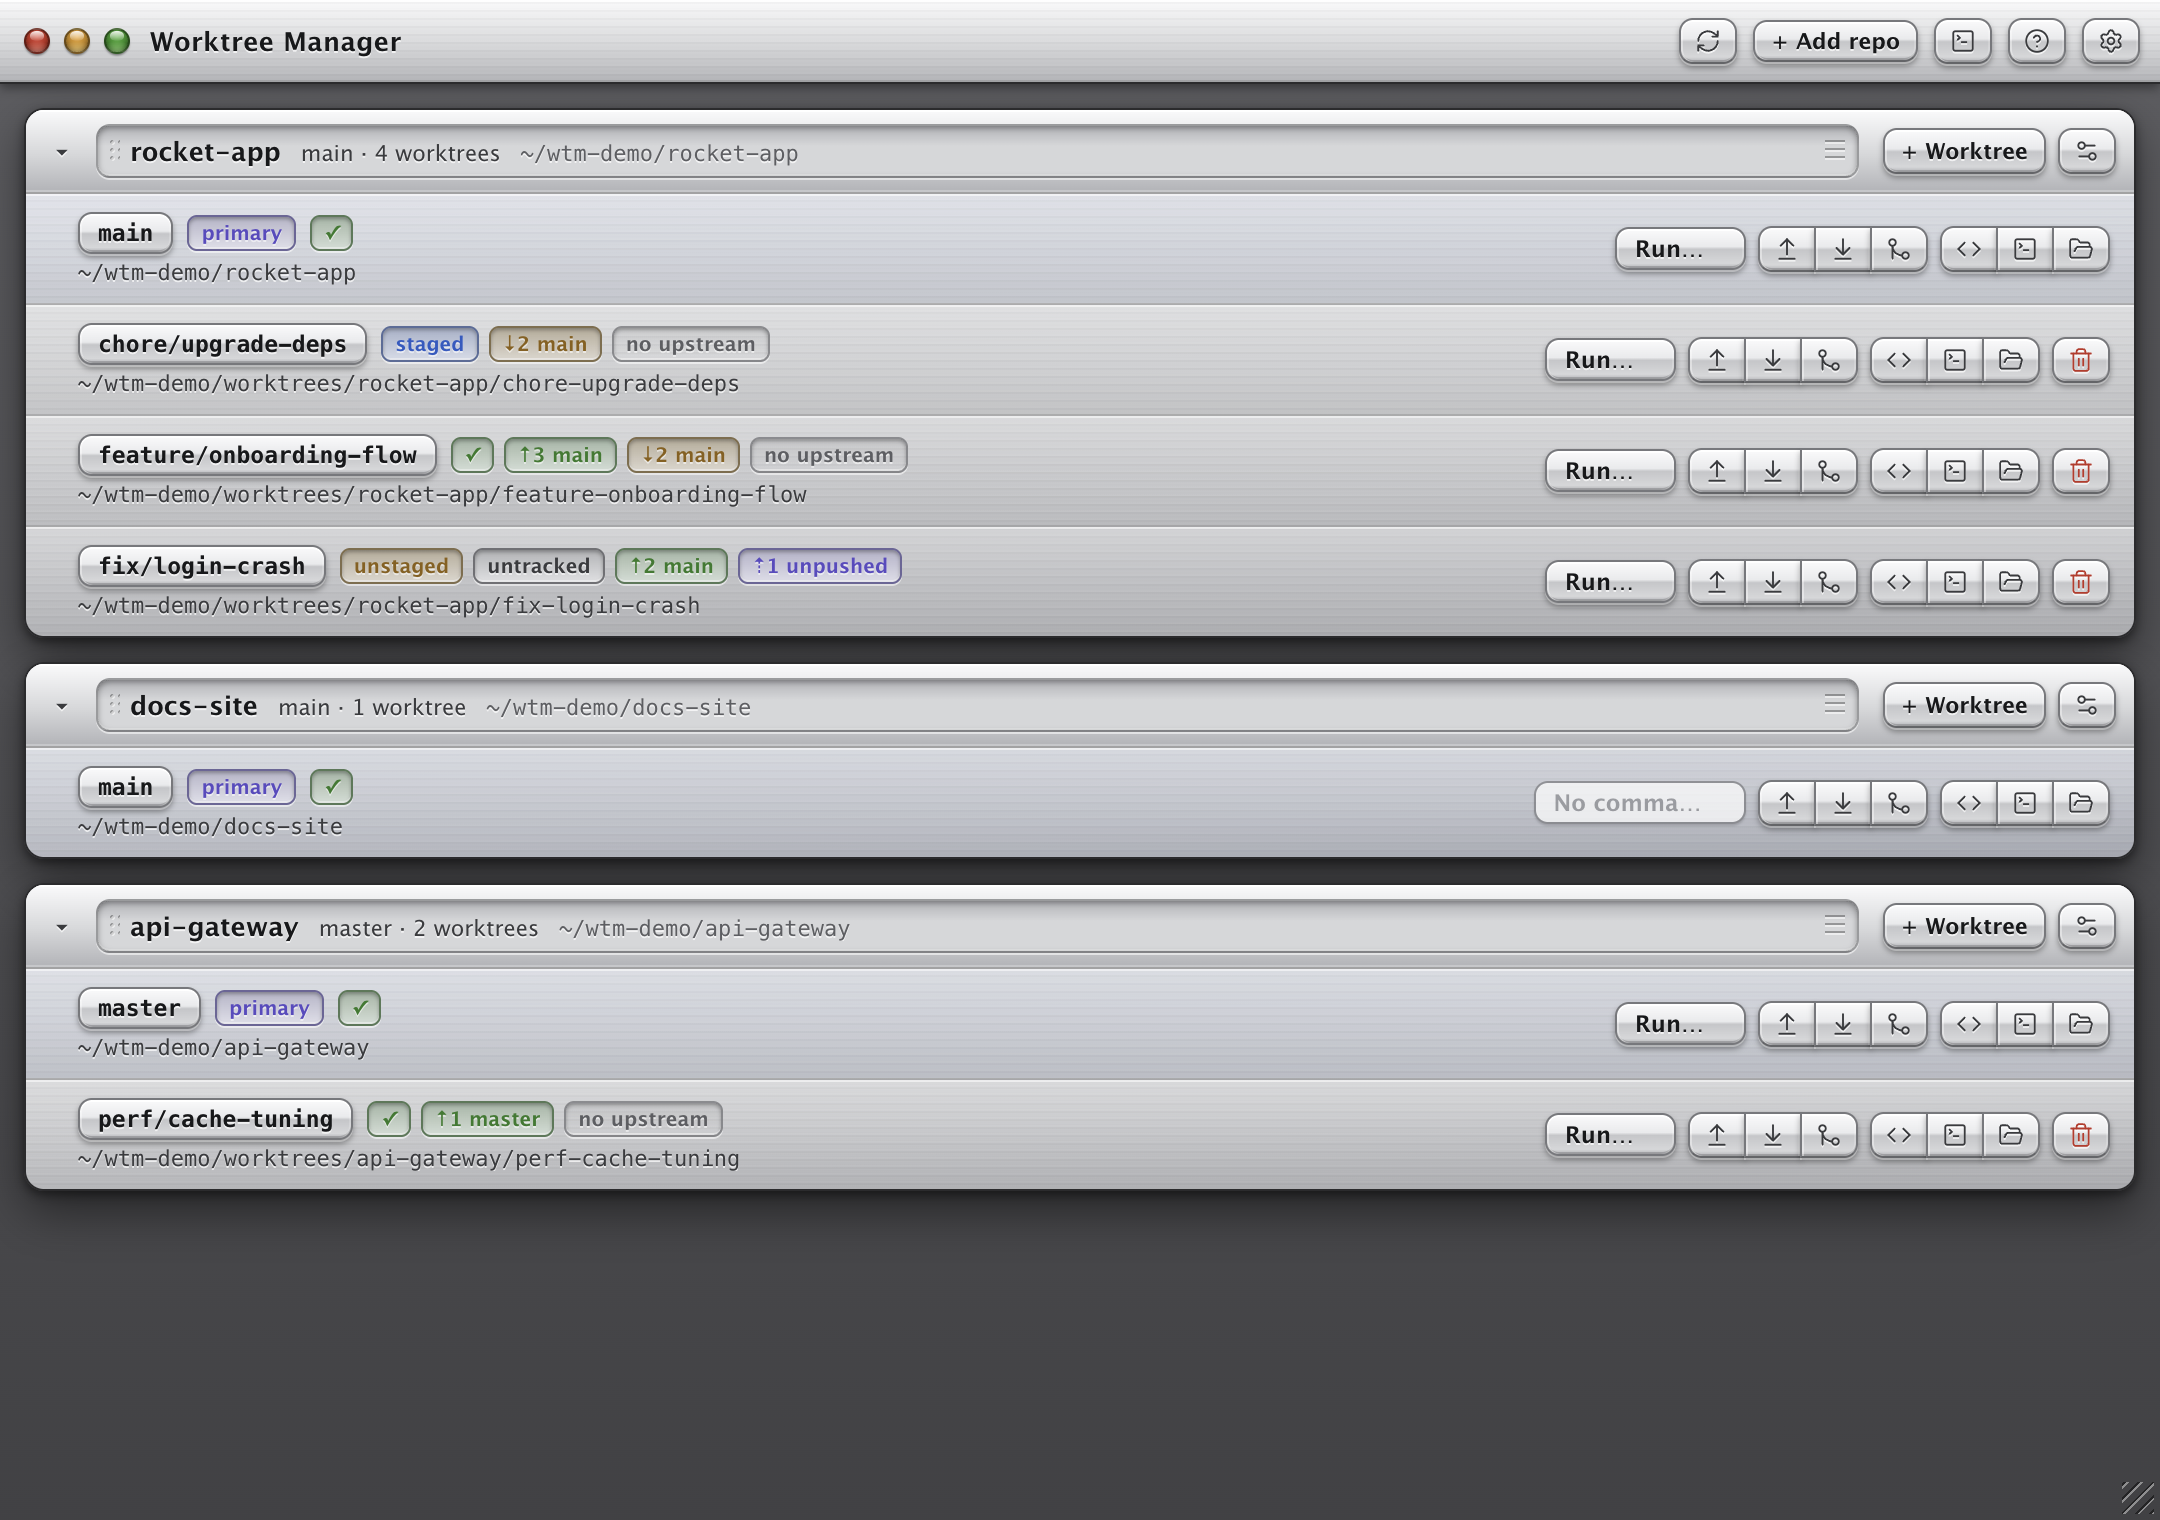
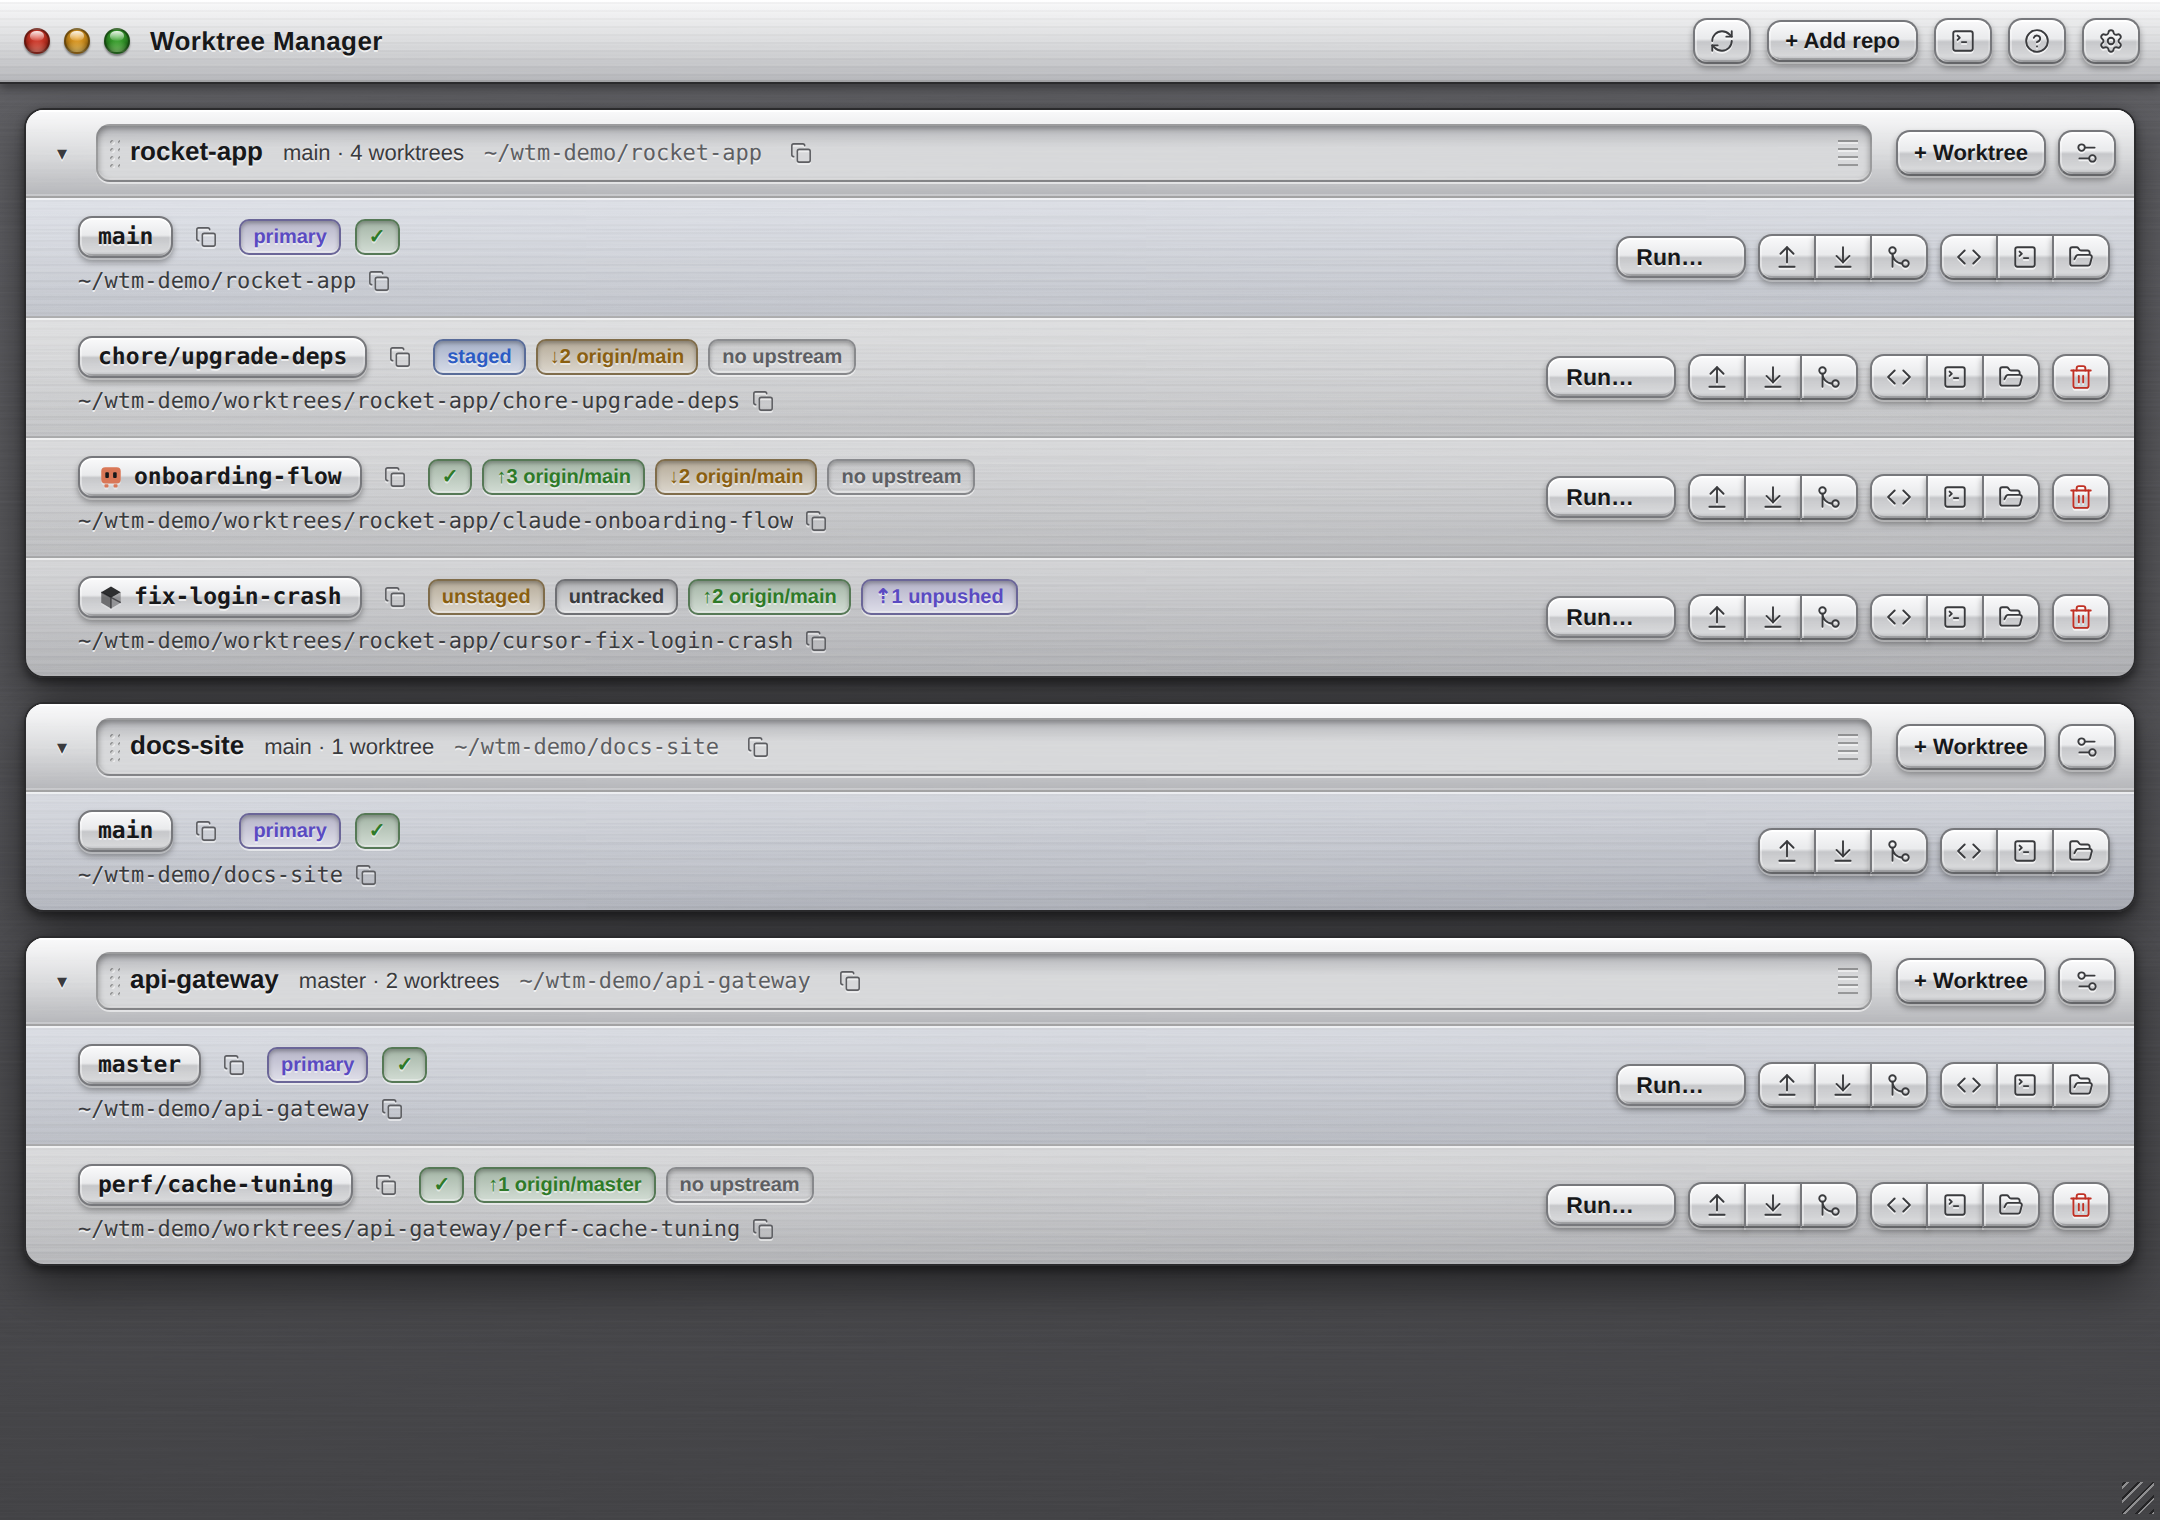
Show agent branches in the README shot; document the new label behavior
The demo data renamed two rocket-app worktrees to `claude/onboarding-flow`
and `cursor/fix-login-crash`, so the README image shows both tool icons and
the repo with no commands shows no launcher. Renaming rather than adding
keeps the row count, and the states each row demonstrates, unchanged — six
rows overflowed the 1080x760 window.

docs/screenshot.png is regenerated. CLAUDE.md gains bullets for the branch
labels and for the launcher's empty state.

Claude-Session: https://claude.ai/code/session_01AcJg2F5qVs3uF7VzT2JL3m

diff --git a/CLAUDE.md b/CLAUDE.md
@@ -235,6 +235,19 @@ src/
   switches). These return `GitOpResult` (`{ ok, message }`) instead of throwing,
   so git's stderr surfaces in the row UI. All ops validate the worktree belongs
   to the repo first (`requireWorktree`).
+- **Branch labels**: a branch under a coding agent's prefix shows that agent's
+  mark instead of the prefix text — `claude/…` and `cursor/…` today. The split is
+  `splitToolPrefix` (`renderer/src/branchTool.ts`, pure and unit-tested); the
+  icons live in `components/ToolIcons.tsx`; `BranchLabel` renders both and is
+  used by the row plate, the picker trigger, and every picker option. The prefix
+  text stays in the DOM behind `.sr-only`, so an accessible name and a copied
+  selection still carry the whole branch name, and picker options repeat it in
+  `aria-label`. Agent branches are long, which is why the plate allows 44ch and
+  the picker popup opens at 260px.
+- **Command launcher**: `WorktreeCommands` renders nothing when the repo has no
+  configured commands — no disabled placeholder plate in every row. Runs still
+  in flight keep their Stop button, so a command deleted from settings mid-run
+  can still be stopped.
 - **Row animations**: a created worktree lands with a specular highlight raked
   across its slat (`.wt-new` in `styles.css`); `CreationsProvider` flags the
   branch as arriving for `ARRIVAL_MS` after the create resolves, and
